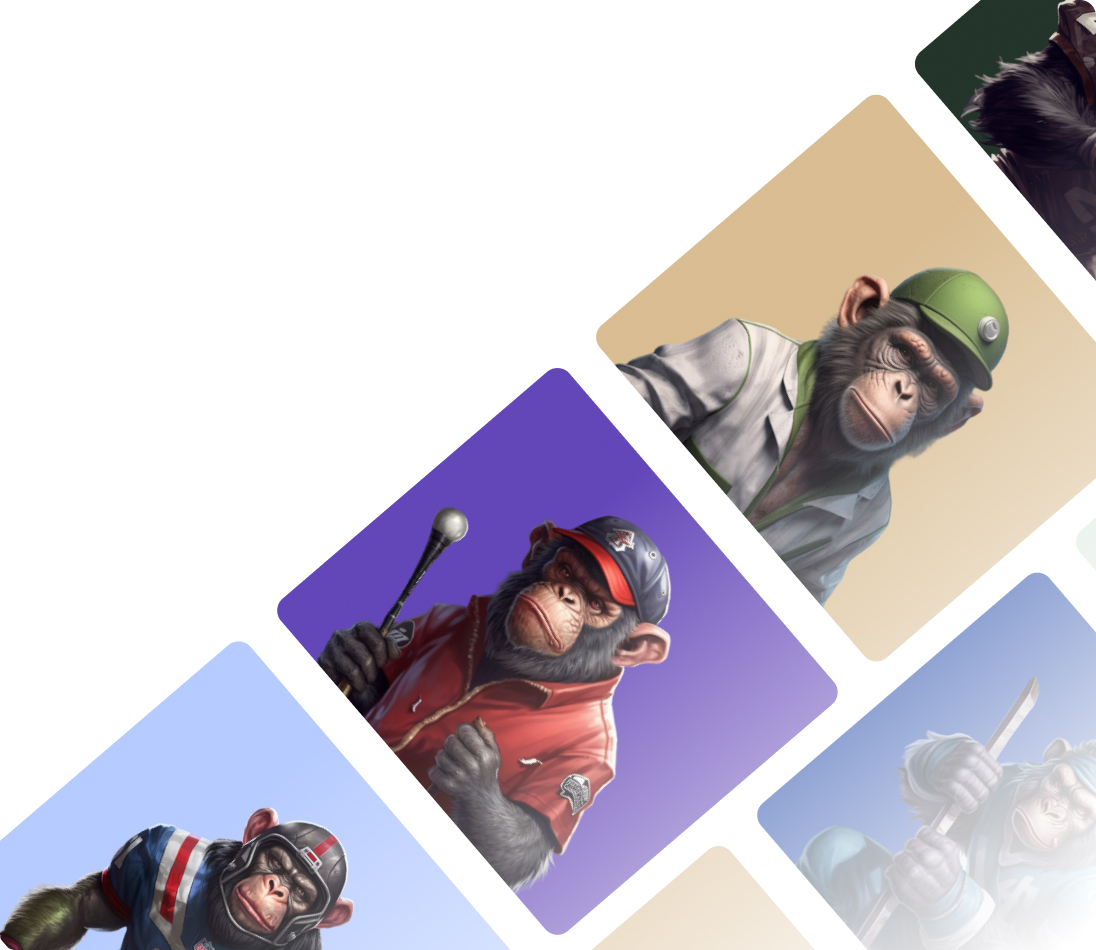
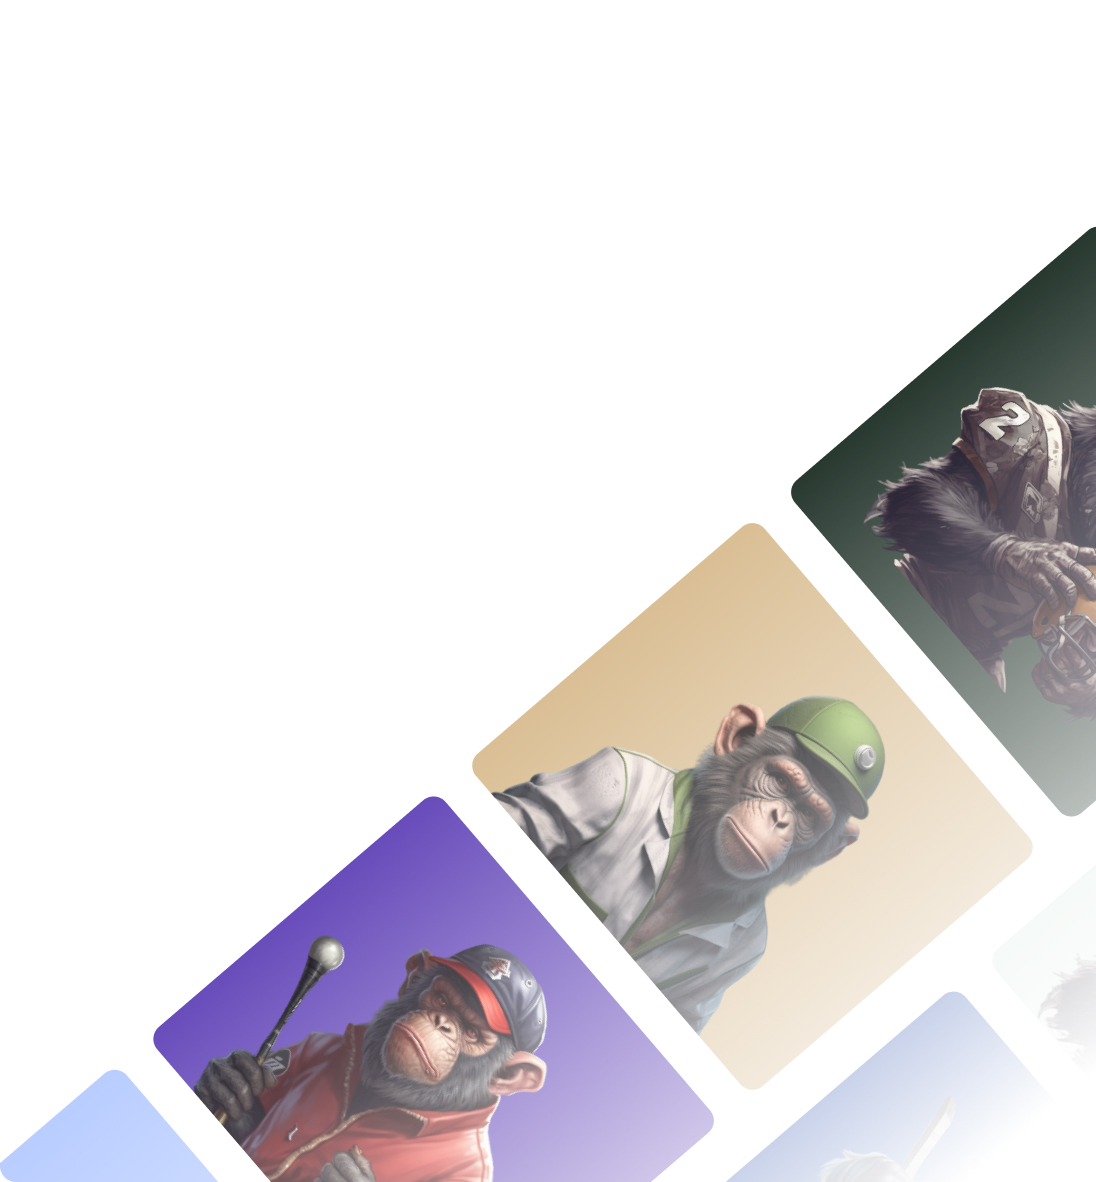
update section2 responsive

diff --git a/src/app/components/home/Card.jsx b/src/app/components/home/Card.jsx
@@ -1,4 +1,6 @@
-const Card = ({ title, backgroundImage, titleColor, delay, isVisible }) => {
+import Button from "../ui/Button";
+
+const Card = ({ title, backgroundImage, titleColor, delay, isVisible, content, button }) => {
     const animationClass = isVisible
     ? delay === 'left'
       ? 'md:animate-slideUp-delay-1'
@@ -10,11 +12,17 @@ const Card = ({ title, backgroundImage, titleColor, delay, isVisible }) => {
       : 'animate-slide-right'
     : '';
 
-    const titleClasses = `absolute top-4 xl:top-[2.2rem] left-4 md:top-6 md:left-6 xl:left-[2.2rem] text-xl md:text-base lg:text-2xl xl:text-[2rem] xl:leading-[2.3rem] 3xl:text-[2.3rem] 3xl:leading-[2.9rem] 4xl:text-[2.9rem] 4xl:leading-[3.4rem] 2xl:p-8 w-2/3 lg:w-1/2 lg:w-2/3 xl:w-3/4 3xl:w-4/5 font-tomato font-medium ${titleColor}`;
+    const titleClasses = `absolute top-4 xl:top-[2.2rem] left-4 md:top-6 md:left-6 xl:left-[2.2rem] text-xl md:text-base lg:text-2xl xl:text-[2rem] xl:leading-[2.3rem] 3xl:text-[2.3rem] 3xl:leading-[2.9rem] 4xl:text-[2.9rem] 4xl:leading-[3.4rem] 2xl:p-8 w-4/5 lg:w-1/2 lg:w-2/3 xl:w-3/4 3xl:w-4/5 font-tomato font-medium ${titleColor}`;
+    const contentClasses = `absolute top-20 lg:top-24 xl:top-28 3xl:top-36 4xl:top-40 left-4 md:left-6 xl:left-[2.2rem] text-xs md:text-sm md:leading-[22px] xl:text-base 3xl:text-xl 4xl:text-[1.75rem] 4xl:leading-[2.1rem] 2xl:p-8 w-3/4 lg:w-1/2 lg:w-2/3 xl:w-3/4 3xl:w-4/5 ${titleColor}`;
   
     return (
       <div className={`card lg:w-1/2 rounded-lg 2xl:rounded-2xl overflow-hidden bg-cover bg-bottom relative opacity-0 ${animationClass} ${mobileAnimationClass}`} style={{ backgroundImage: `url(${backgroundImage})` }}>
         <p className={`${titleClasses}`}>{title}</p>
+        <p className={`${contentClasses}`}>{content}</p>
+        <div className="absolute left-4 md:left-6 xl:left-8 3xl:left-16 top-48 sm:top-44 md:top-56 3xl:top-[19rem] 4xl:top-96">
+        {button ? <Button variant="filled" >Go to marketplace</Button>: ''}
+        </div>
+
       </div>
     );
   };

diff --git a/src/app/components/home/Section2.jsx b/src/app/components/home/Section2.jsx
@@ -38,8 +38,8 @@ const Section2 = () => {
           <p className="pl-4 sm:text-xs md:text-base lg:text-2xl xl:text-[1.8rem] 3x:text-[2.3rem] 4xl:text-[2.5rem] text-new-black font-tomato inline-block align-left md:align-center font-semibold">Securely trade your bets with other users</p>
         </div>
         <div className="flex flex-col md:flex-row space-between gap-4 md:gap-[1.5rem]">
-          <Card title="Transform your bet into a blockchain certified ticket" backgroundImage="/section21.webp" titleColor="text-white" isVisible={isVisible} />
-          <Card title="Explore and trade on the marketplace" backgroundImage="/section22.webp" titleColor="text-new-black" isVisible={isVisible} delay="left" />
+          <Card title="Transform your bet into a blockchain certified ticket" backgroundImage="/section21.jpg" titleColor="text-white" isVisible={isVisible} content="Easily transform your bet into a digitall certified ticket, safely recorded on the blockchain and granting the holder exclusive ownership rights, as well access to redeem its value one they become available" button={false} />
+          <Card title={<><span>Explore and trade on</span><br /><span>the marketplace</span></>}backgroundImage="/section22.jpg" titleColor="text-new-black" isVisible={isVisible} delay="left" content="Explore across a wide range of appealing bets under a marketplace, designed to privately trade your stake, while guaranteeing the legitimacy of your purchase, and safety of your exchange transaction" button={true}/>
         </div>
       </div>
     </div>

diff --git a/src/app/globals.css b/src/app/globals.css
@@ -52,12 +52,30 @@ background-clip: text;
 .card {
   position: relative;
   width: 100%;
-  padding-top: 45.25%; /* Proporción de aspecto 16:9 */
+  padding-top: 145%;
   background-size: cover;
   background-position: center;
   transition: transform 0.3s ease;
   max-height: min-content;
   min-height: 300px;
+}
+
+@media (min-width: 415px) {
+  .card {
+    padding-top: 100%;
+  }
+}
+
+@media (min-width: 768px) {
+  .card {
+    padding-top: 70%;
+  }
+}
+
+@media (min-width: 1024px) {
+  .card {
+    padding-top: 50%;
+  }
 }
 
 .card:hover {

diff --git a/tailwind.config.js b/tailwind.config.js
@@ -83,6 +83,7 @@ module.exports = {
 
       }
     },
+    
   },
   plugins: [],
 };
